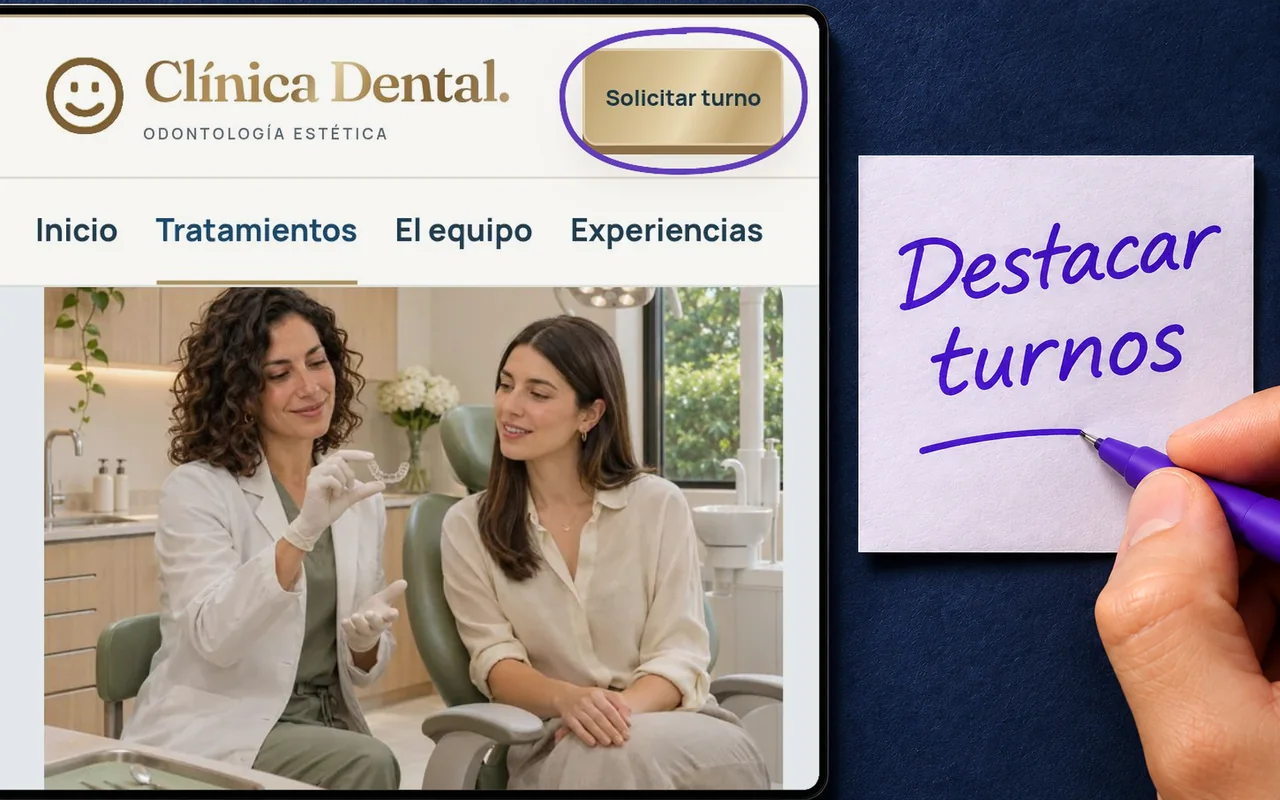
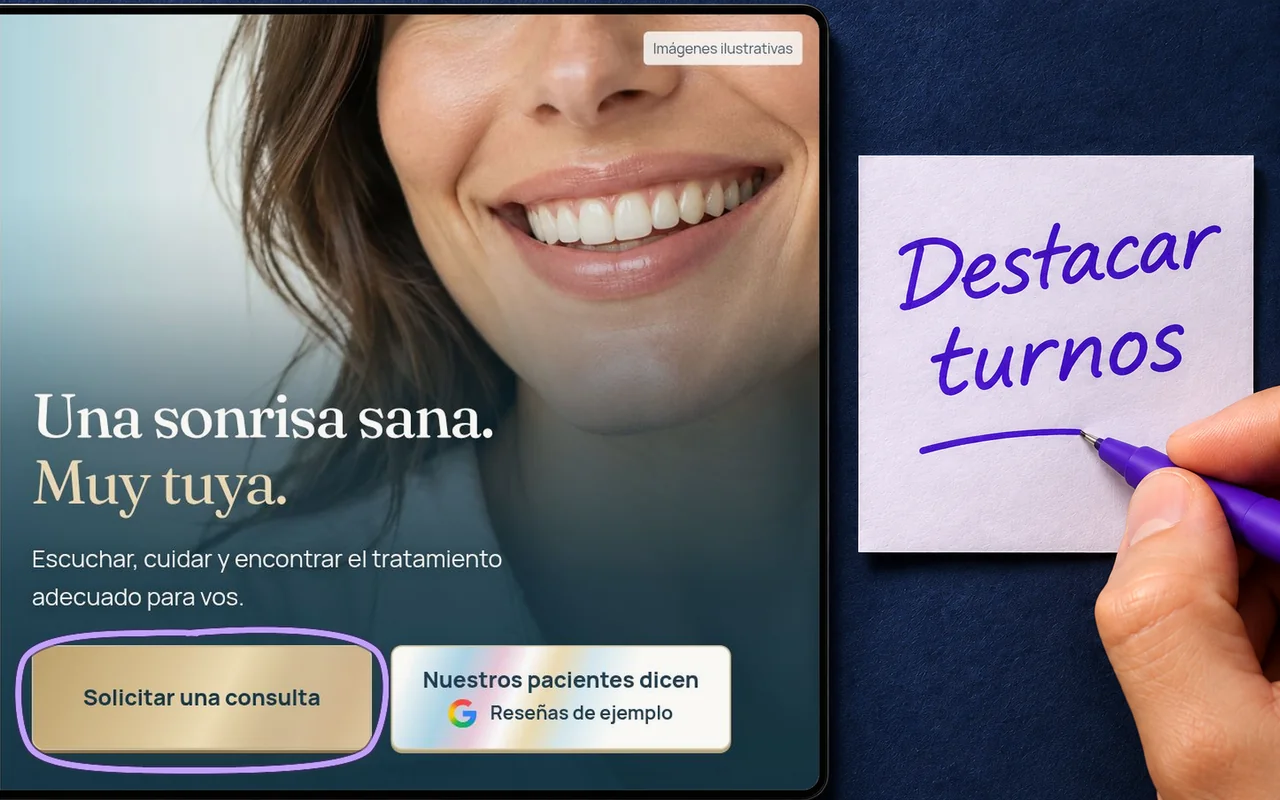
Mostrar la sonrisa de la portada de Clínica Dental en la revisión

diff --git a/site/servicios/diseno-web/index.html b/site/servicios/diseno-web/index.html
@@ -87,12 +87,12 @@
 </li>
 <li class="process-chapter">
 <details class="process-step" name="web-process">
-<summary><span class="process-chapter-number" aria-hidden="true">03</span><span class="process-step-copy"><strong>Ves tu web. La ajustamos.</strong><span>Probás la web y ajustamos dónde aparece el botón «Solicitar turno».</span></span><span class="process-step-toggle" aria-hidden="true"><svg viewBox="0 0 24 24"><path d="M5 12h14"/><path class="process-toggle-vertical" d="M12 5v14"/></svg></span></summary>
+<summary><span class="process-chapter-number" aria-hidden="true">03</span><span class="process-step-copy"><strong>Ves tu web. La ajustamos.</strong><span>Probás la web y ajustamos dónde aparece el botón «Solicitar una consulta».</span></span><span class="process-step-toggle" aria-hidden="true"><svg viewBox="0 0 24 24"><path d="M5 12h14"/><path class="process-toggle-vertical" d="M12 5v14"/></svg></span></summary>
 <div class="process-step-body">
-<img class="process-photo" src="/assets/proceso-web/revision-800.webp?v=clinica-dental-original-1"
-     srcset="/assets/proceso-web/revision-480.webp?v=clinica-dental-original-1 480w, /assets/proceso-web/revision-800.webp?v=clinica-dental-original-1 800w, /assets/proceso-web/revision-1280.webp?v=clinica-dental-original-1 1280w"
+<img class="process-photo" src="/assets/proceso-web/revision-800.webp?v=clinica-dental-sonrisa-1"
+     srcset="/assets/proceso-web/revision-480.webp?v=clinica-dental-sonrisa-1 480w, /assets/proceso-web/revision-800.webp?v=clinica-dental-sonrisa-1 800w, /assets/proceso-web/revision-1280.webp?v=clinica-dental-sonrisa-1 1280w"
      sizes="auto, (max-width: 767px) 100vw, (max-width: 1000px) 95vw, (max-width: 1296px) 53vw, 682px" width="1280" height="800"
-     loading="lazy" decoding="async" alt="El botón «Solicitar turno» de la demo Clínica Dental marcado en violeta junto a la nota «Destacar turnos».">
+     loading="lazy" decoding="async" alt="Portada de Clínica Dental con la foto de la sonrisa y el botón «Solicitar una consulta» marcado junto a la nota «Destacar turnos».">
 </div>
 </details>
 </li>
